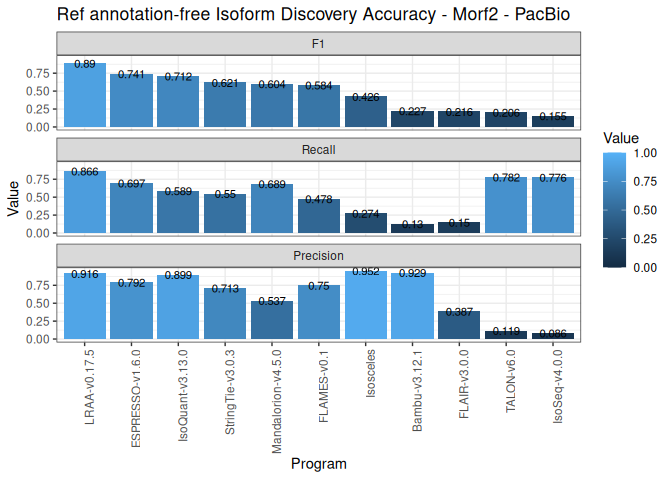
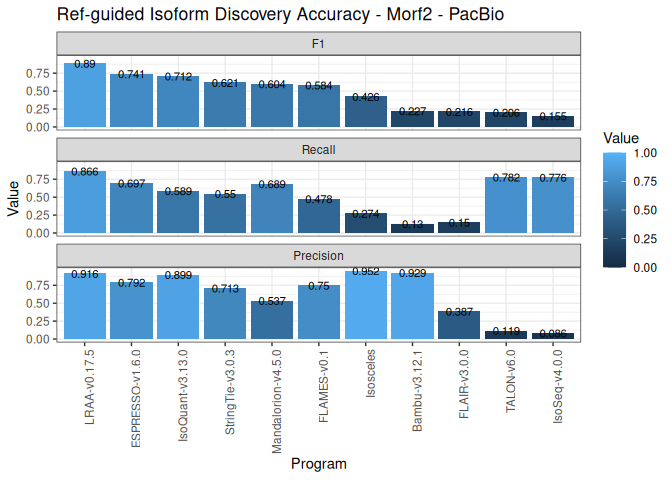
updated morf name to ref-guided in ref-guided section

Changed region(s): [[0.125, 0.0, 0.8438, 0.0625]]

diff --git a/REF_Guided/MORFs/Morfs2_ref_guided_eval.md b/REF_Guided/MORFs/Morfs2_ref_guided_eval.md
@@ -141,7 +141,7 @@ pacbio_only_plot = pacbio_only_df %>%
   theme_bw() +
   facet_wrap(~Metric, ncol=1) +
   theme(axis.text.x = element_text(angle = 90, hjust = 1)) +
-  ggtitle("Ref annotation-free Isoform Discovery Accuracy - Morf2 - PacBio")
+  ggtitle("Ref-guided Isoform Discovery Accuracy - Morf2 - PacBio")
 
 
 pacbio_only_plot
@@ -171,7 +171,7 @@ ONT_only_plot = ONT_only_df %>%
   theme_bw() +
   facet_wrap(~Metric, ncol=1) +
   theme(axis.text.x = element_text(angle = 90, hjust = 1)) +
-  ggtitle("Ref annotation-free Isoform Discovery Accuracy - Morf2 - ONT")
+  ggtitle("Ref-guided Isoform Discovery Accuracy - Morf2 - ONT")
 
 
 ONT_only_plot
@@ -207,7 +207,7 @@ pacbio_only_plot = pacbio_only_df %>%
   #scale_fill_gradient(limits = c(0, 1), low = "white", high = "steelblue") +
   theme_bw() +
   theme(axis.text.x = element_text(angle = 90, hjust = 1)) +
-  ggtitle("Ref annotation-free Isoform Discovery Accuracy - Morf2 - PacBio") +
+  ggtitle("Ref-guided Isoform Discovery Accuracy - Morf2 - PacBio") +
   labs(x = "Program", y = "Metric")
 ```
 
@@ -228,7 +228,7 @@ ONT_only_plot = ONT_only_df %>%
   #scale_fill_gradient(limits = c(0, 1), low = "white", high = "steelblue") +
   theme_bw() +
   theme(axis.text.x = element_text(angle = 90, hjust = 1)) +
-  ggtitle("Ref annotation-free Isoform Discovery Accuracy - Morf2 - ONT") +
+  ggtitle("Ref-guided Isoform Discovery Accuracy - Morf2 - ONT") +
   labs(x = "Program", y = "Metric")
 
 MORFs_refGuided_plot = grid.arrange(pacbio_only_plot, ONT_only_plot, ncol = 1)
@@ -281,7 +281,7 @@ latest_pacbio_only_plot = latest_pacbio_only_df %>%
             color = "white") +
   theme_bw() +
   theme(axis.text.x = element_text(angle = 90, hjust = 1)) +
-  ggtitle("Ref annotation-free Isoform Discovery Accuracy - Morf2 - PacBio - Latest Tools") +
+  ggtitle("Ref-guided Isoform Discovery Accuracy - Morf2 - PacBio - Latest Tools") +
   labs(x = "Program", y = "Metric")
 
 latest_ONT_only_plot = latest_ONT_only_df %>%
@@ -293,7 +293,7 @@ latest_ONT_only_plot = latest_ONT_only_df %>%
             color = "white") +
   theme_bw() +
   theme(axis.text.x = element_text(angle = 90, hjust = 1)) +
-  ggtitle("Ref annotation-free Isoform Discovery Accuracy - Morf2 - ONT - Latest Tools") +
+  ggtitle("Ref-guided Isoform Discovery Accuracy - Morf2 - ONT - Latest Tools") +
   labs(x = "Program", y = "Metric")
 
 latest_MORFs_refGuided_plot = grid.arrange(latest_pacbio_only_plot,
